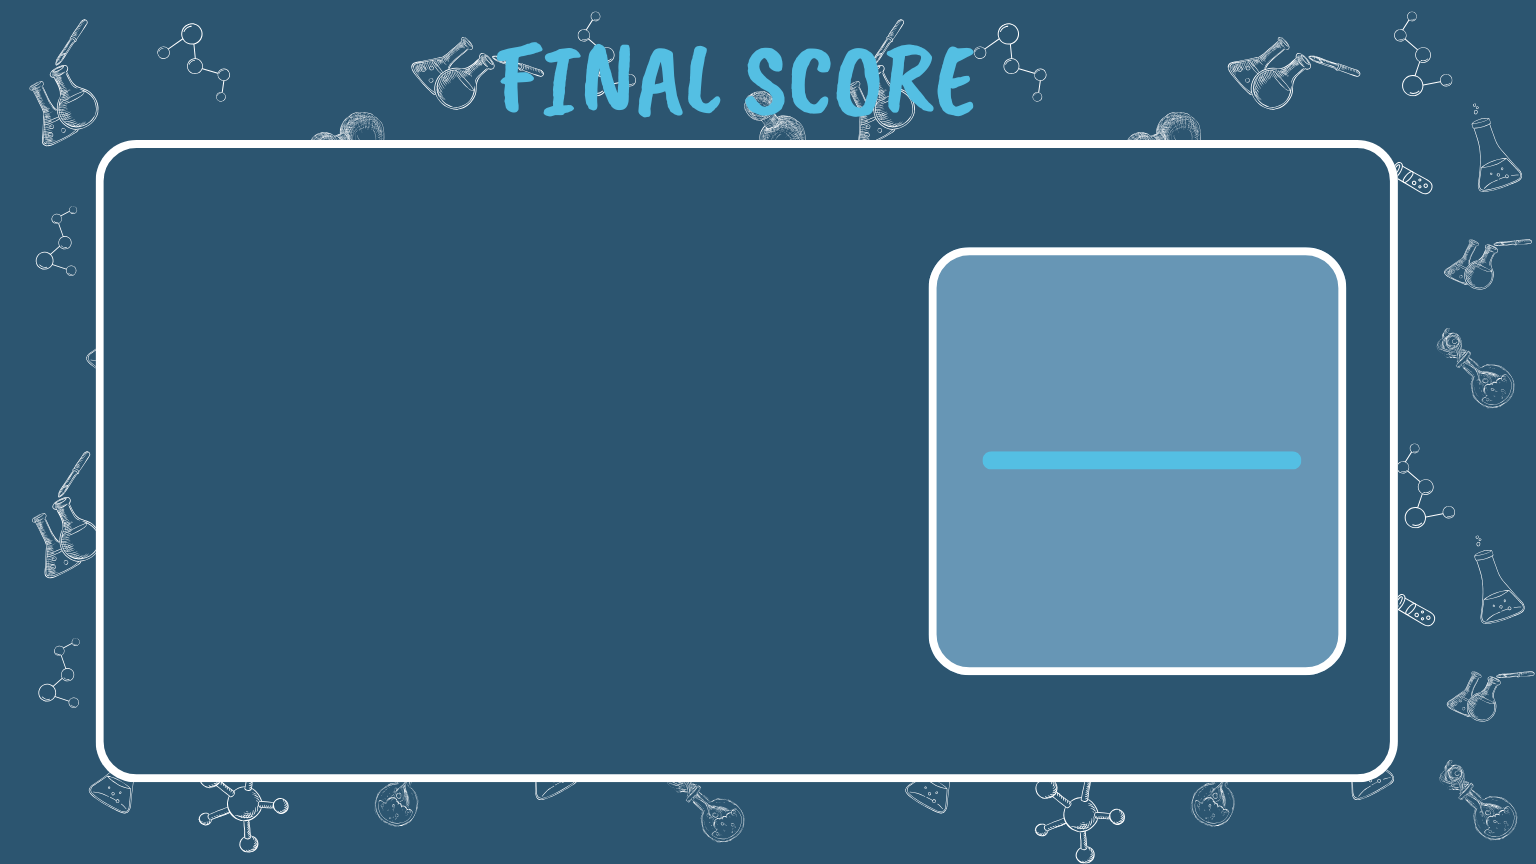
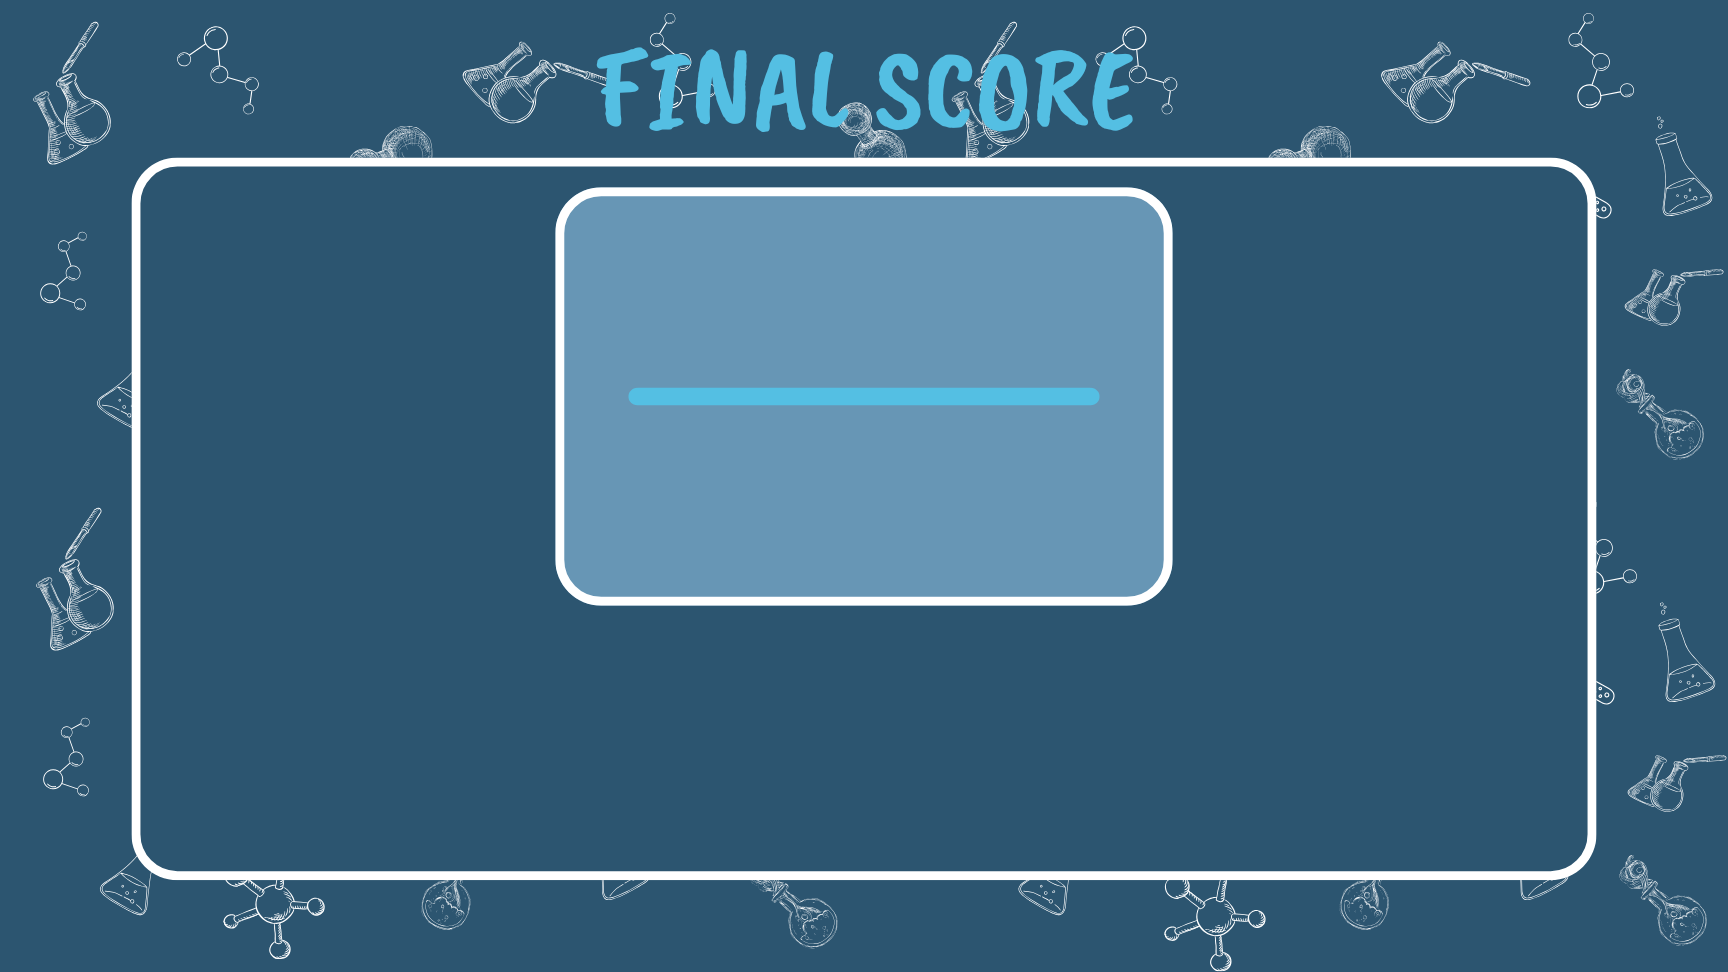
Completion of the draft 1 code
The finish page has been completed. And excluding error messages, the code has also been completed. There was only one difficulty with this part of the code and that was the creation of an animated flowing progress bar to show the users proficiency. I scrapped a three layered version of this as it was far too complicated and required more advanced coding knowledge than we had learnt. I changed it to a simple one line progress bar, which changes colour as it progresses showing the user's level of proficiency and then displaying their quantitative result in the space above the bar. To complete the rest of the code I will spend time on cleaning up the code, and adding error messages. If there is time I will also optimize certain parts of the code.

diff --git a/Chemistry quiz.py b/Chemistry quiz.py
@@ -52,6 +52,7 @@ def openplayb():
 
     #---------------(continue button)---------------# 
 def b_continue():
+    global num_correct_answers
     try:
         global nickname
         nickname = str(Enickname.get())
@@ -68,6 +69,8 @@ def b_continue():
     except Exception as e:
         show_message()
         print(e)
+    
+    num_correct_answers = 0
 #---------------ALL ERROR MESSAGES---------------#
 def show_message(): 
     messagebox.showerror("Oops!", "error")
@@ -86,7 +89,16 @@ def quizpage():
     hangyaboly_30 = tkFont.Font(family="hangyaboly", size=30)
     global hangyaboly_90
     ctypes.windll.gdi32.AddFontResourceW(r"SOFTWARE_QUIZ/Chemistry-Quiz/Fonts/Hangyaboly.ttf")
-    hangyaboly_90 = tkFont.Font(family="hangyaboly", size=150)
+    hangyaboly_90 = tkFont.Font(family="hangyaboly", size=90)
+    global hangyaboly_150
+    ctypes.windll.gdi32.AddFontResourceW(r"SOFTWARE_QUIZ/Chemistry-Quiz/Fonts/Hangyaboly.ttf")
+    hangyaboly_150 = tkFont.Font(family="hangyaboly", size=150)
+
+    #styles
+    quiz_style = ttk.Style()
+    quiz_style.theme_use('default')
+    quiz_style.configure("Quiz.Horizontal.TProgressbar", thickness=20, troughcolor='#2c5570', background='#54bfe3')
+
 
     # window details
     global quiz
@@ -95,9 +107,9 @@ def quizpage():
     quiz.title('Questions')
     quiz.lift()
     quiz.focus_force()
-    quiz.grab_set
+    quiz.grab_set()
     global iteration_count
-    iteration_count = 1
+    iteration_count = 0
     is_answered = False
     # background image
     quiz.quizimage= PhotoImage(file=r"SOFTWARE_QUIZ/Chemistry-Quiz/Quiz page.png")
@@ -108,7 +120,7 @@ def quizpage():
     start. place(relx=0.12, rely=0.198, anchor= 'center')
     # progress bar
     global progressbar
-    progressbar = ttk.Progressbar(quiz, orient= HORIZONTAL, length = 1060, mode= 'determinate')
+    progressbar = ttk.Progressbar(quiz,style ="Quiz.Horizontal.TProgressbar", orient= HORIZONTAL, length = 1060, mode= 'determinate')
     progressbar.place(relx=0.5, rely=0.198, anchor= 'center')
     progressbar['value'] = 0
     #finish
@@ -163,12 +175,12 @@ def iterations():
     L_check.config(text = '')
     progressbar['value'] = progressbar['value'] + (100/questions_num)
     global iteration_count
-    L_title.config(text = f'Questions {iteration_count}')
+    L_title.config(text = f'Questions {iteration_count+1}')
     global correct_answer
     correct_answer= ''
     global ranint1
     ranint1 = random.randint(minrange,maxrange)
-    if iteration_count == questions_num:
+    if iteration_count + 1 == questions_num:
         quiz.finish_image = PhotoImage(file= r'SOFTWARE_QUIZ/Chemistry-Quiz/Finish button.png')
         next_button.config(image= quiz.finish_image, command = b_finish)
     if topic.lower() == 'name':
@@ -199,6 +211,7 @@ def iterations():
 #---------------PAGE IF NAME IS TOPIC---------------#
 def name_topic():
     frame1 = Frame(quiz)
+    frame1.place_forget()
     frame1.place(relx=0.5, rely=0.375, anchor= 'center')
     frame1.config(height= 280, width=280, bg= '#2c5570')
     quiz.frame1i= PhotoImage(file=r"SOFTWARE_QUIZ/Chemistry-Quiz/Frame 1.png")
@@ -212,6 +225,7 @@ def name_topic():
 #---------------PAGE IF SYMBOL IS TOPIC---------------#
 def symbol_topic():
     frame1 = Frame(quiz)
+    frame1.place_forget()
     frame1.place(relx=0.5, rely=0.375, anchor= 'center')   
     frame1.config(height=280, width=750, bg='#2c5570')
     quiz.frame2i= PhotoImage(file=r"SOFTWARE_QUIZ/Chemistry-Quiz/Frame2.png")
@@ -225,6 +239,7 @@ def symbol_topic():
 #---------------PAGE IF ATOMIC NUM IS TOPIC---------------#
 def atonum_topic():
     frame1 = Frame(quiz)
+    frame1.place_forget()
     frame1.place(relx=0.5, rely=0.375, anchor= 'center')
     frame1.config(height=280, width=750, bg='#2c5570')
     quiz.frame2i= PhotoImage(file=r"SOFTWARE_QUIZ/Chemistry-Quiz/Frame2.png")
@@ -238,6 +253,7 @@ def atonum_topic():
 #---------------PAGE IF GROUP IS TOPIC---------------#
 def group_topic():
     frame1 = Frame(quiz)
+    frame1.place_forget()
     frame1.place(relx=0.5, rely=0.375, anchor= 'center')
     frame1.config(height=280, width=750, bg='#2c5570')
     quiz.frame2i= PhotoImage(file=r"SOFTWARE_QUIZ/Chemistry-Quiz/Frame2.png")
@@ -251,6 +267,7 @@ def group_topic():
 #---------------PAGE IF PERIOD IS TOPIC---------------#
 def period_topic():
     frame1 = Frame(quiz)
+    frame1.place_forget()
     frame1.place(relx=0.5, rely=0.375, anchor= 'center')
     frame1.config(height=280, width=750, bg='#2c5570')
     quiz.frame2i= PhotoImage(file=r"SOFTWARE_QUIZ/Chemistry-Quiz/Frame2.png")
@@ -264,31 +281,104 @@ def period_topic():
 
 #---------------SUBMIT BUTTON---------------#
 def b_submit():
-    global num_correct_answers
-    num_correct_answers = 0
-    global answer
+    global answer, num_correct_answers
     answer = E_quiz.get()
-    if correct_answer.lower() == answer.lower():
+    
+    if str(correct_answer).lower() == str(answer).lower():
         L_check.config(text = f'{nickname} your answer is correct!!!!', foreground = 'green')
         E_quiz.config(foreground='green')
         num_correct_answers += 1
     else:
         L_check.config( text = f'{nickname} your answer is incorrect :(', foreground= 'red')
+        E_quiz.insert(END, f' :The correct answer is {correct_answer}')
         E_quiz.config(foreground='red')
 
 #---------------FINISH PAGE---------------#
 def b_finish():
-    global finishpg
+    global finishpg, L_moderate, L_weak, L_proficient, percent_correct, L_total, L_correct, quit_finish_button, menue_finish_button, scorebar
     finishpg = Toplevel(pg)
     finishpg.attributes('-fullscreen', True)
     finishpg.title('Questions')
     finishpg.lift()
     finishpg.focus_force()
-    finishpg.grab_set
-    quiz.destroy()
-    finishpg.image2= PhotoImage(file=r"SOFTWARE_QUIZ/Chemistry-Quiz/Chemistry Quiz front page and quiz.png")
+    finishpg.grab_set()
+    finishpg.image2= PhotoImage(file=r"SOFTWARE_QUIZ/Chemistry-Quiz/score page.png")
     image2_label = Label(finishpg, image = finishpg.image2,bd=0)
-    image2_label.pack()
+    image2_label.place(relx=0.5, rely=0.5, anchor= 'center')
+    # progress bar
+    style0 = ttk.Style(finishpg)
+    style0.theme_use('default')
+    style0.configure("style0.Horizontal.TProgressbar", thickness = 40, troughcolour = '#ff6666', background = '#a6a6a6' )
+
+    style1 = ttk.Style(finishpg)
+    style1.theme_use('default')
+    style1.configure("style1.Horizontal.TProgressbar", thickness = 40, troughcolour = '#ff6666', background = '#ff5757' )
+
+    style2 = ttk.Style(finishpg)
+    style2.theme_use('default')
+    style2.configure("style2.Horizontal.TProgressbar", thickness = 40, troughcolour = '#ff6666', background = '#ff914d' )
+
+    style3 = ttk.Style(finishpg)
+    style3.theme_use('default')
+    style3.configure("style3.Horizontal.TProgressbar", thickness = 40, troughcolour = '#ff6666', background = '#00bf63' )
+
+    scorebar = ttk.Progressbar(finishpg, style = "style0.Horizontal.TProgressbar", orient= HORIZONTAL, length = 1300, mode= 'determinate')
+    scorebar.place(relx=0.5, rely=0.72, anchor= 'center')  
+        #lable for bar 1
+    L_weak = Label(finishpg, text = 'WEAK', foreground= '#ffffff', bg = '#2c5570',borderwidth=0, highlightthickness=0, font = hangyaboly_20)
+    L_weak.place(relx=0.25, rely=0.67, anchor= 'center')
+        # label for bar 2
+    L_moderate = Label(finishpg, text = 'MODERATE', foreground= '#ffffff', bg = '#2c5570',borderwidth=0, highlightthickness=0, font = hangyaboly_20)
+    L_moderate.place(relx=0.50, rely=0.67, anchor= 'center')
+        # label for bar 3
+    L_proficient = Label(finishpg, text = 'PROFICIENT', foreground= '#ffffff', bg = '#2c5570',borderwidth=0, highlightthickness=0, font = hangyaboly_20)
+    L_proficient.place(relx=0.75, rely=0.67, anchor= 'center')
+
+    # label of num_correct
+    L_correct = Label(finishpg, text = '------', foreground= '#ffffff', bg = '#6796b5',borderwidth=0, highlightthickness=0, font = hangyaboly_90)
+    L_correct.place(relx=0.5, rely=0.30, anchor= 'center')
+    # label of question_num
+    L_total = Label(finishpg, text = '------', foreground= '#ffffff', bg = '#6796b5',borderwidth=0, highlightthickness=0, font = hangyaboly_90)
+    L_total.place(relx=0.5, rely=0.50, anchor= 'center')
+
+    # quit button
+    finishpg.quit_image = PhotoImage(file = r'SOFTWARE_QUIZ/Chemistry-Quiz/quit button_finish.png')
+    quit_finish_button = Button(finishpg, image = finishpg.quit_image, borderwidth =0, highlightthickness =0, command= pg.destroy )
+    quit_finish_button.place(relx= 0.35, rely= 0.84, anchor = 'center') 
+
+    # quit button
+    finishpg.menue_image = PhotoImage(file = r'SOFTWARE_QUIZ/Chemistry-Quiz/menue button_finish.png')
+    menue_finish_button = Button(finishpg, image = finishpg.menue_image, borderwidth =0, highlightthickness =0, command= finishpg.destroy )
+    menue_finish_button.place(relx= 0.65, rely= 0.84, anchor = 'center') 
+
+    percent_correct = (num_correct_answers/questions_num)*100
+    scorebar['value'] = 0
+    quiz.destroy()
+    score_progbar()
+
+def score_progbar():
+    global percent_correct
+    if scorebar['value'] < percent_correct and scorebar['value'] < 100 :
+        scorebar['value'] += 1
+        if 16 <= scorebar['value'] < 17:
+            L_weak.config(foreground= '#ff5757')
+            scorebar.config(style = "style1.Horizontal.TProgressbar")
+        elif 49 <= scorebar['value'] < 50:
+            L_moderate.config(foreground= '#ff914d')
+            scorebar.config(style = "style2.Horizontal.TProgressbar")
+        elif scorebar['value'] == 83:
+            L_weak.config(foreground= '#00bf63')
+            scorebar.config(style = "style3.Horizontal.TProgressbar")
+        finishpg.after(20, score_progbar)
+    else:
+        L_correct.config(text = num_correct_answers)
+        L_total.config(text = questions_num)
+    
+
+
+        
+
+
 #---------------MAIN PAGE---------------#
 # window details
 pg=Tk()
